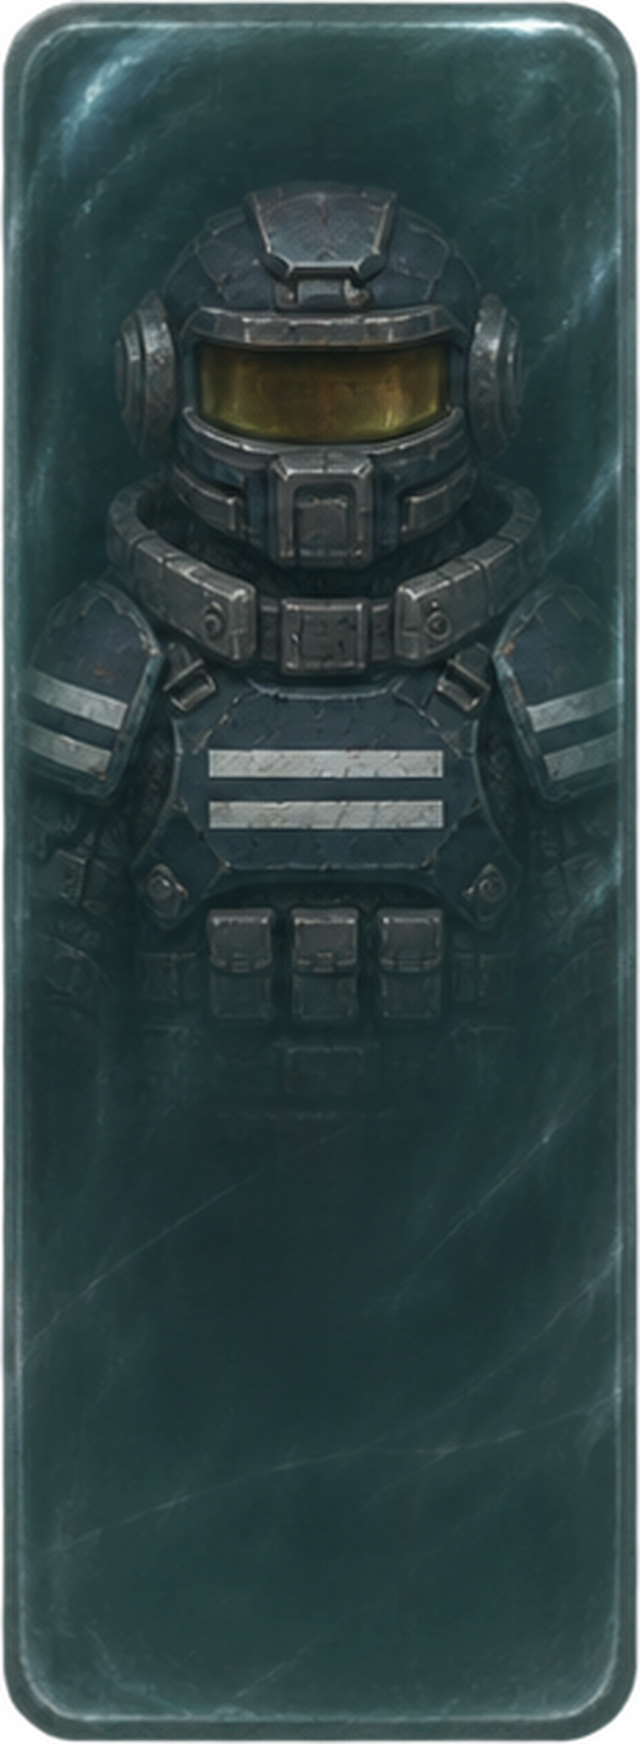
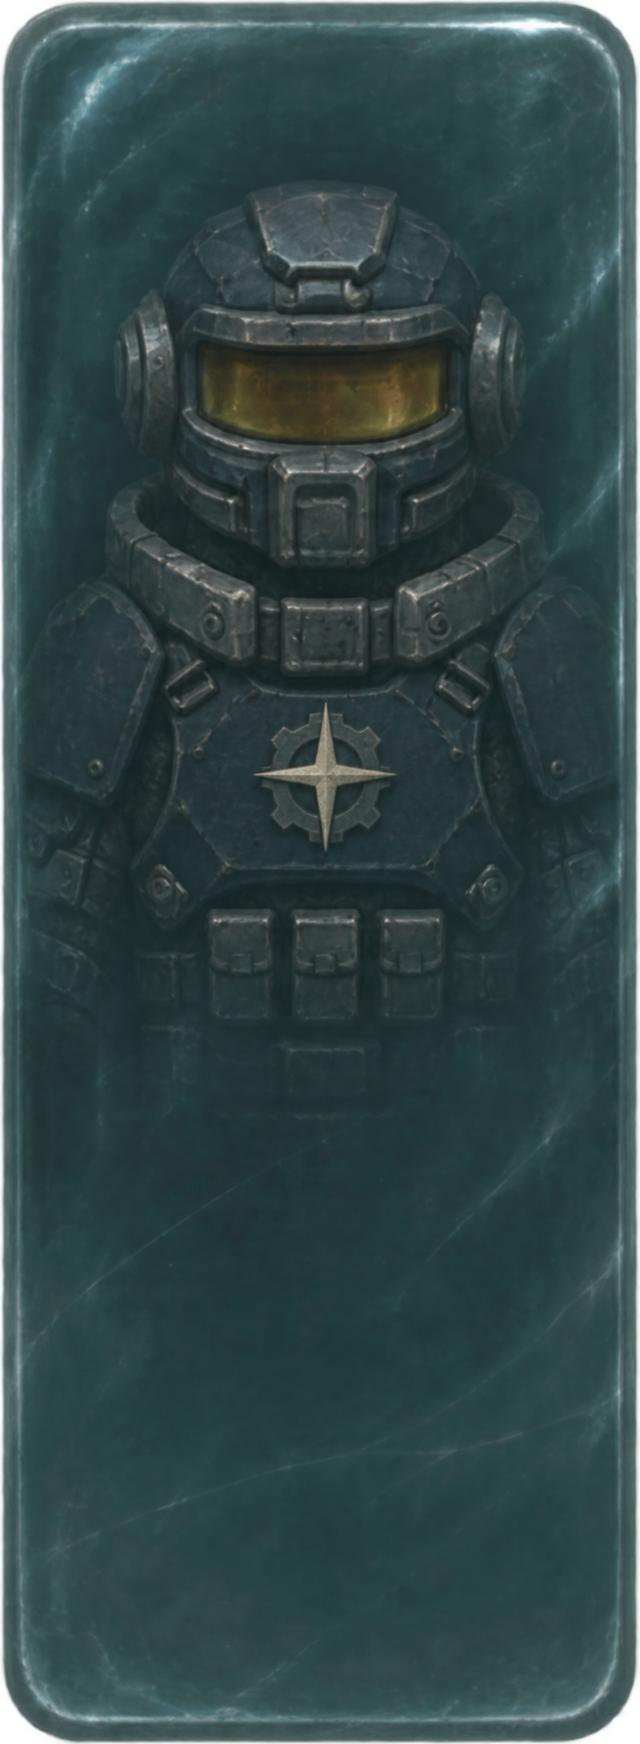
modified:   System-Aegis-No-Headsets/Assets/Factions/coalition/rack-suit.png 	modified:   System-Aegis-No-Headsets/Assets/Factions/coalition/rack-window-v2.png 	modified:   System-Aegis-No-Headsets/Assets/Factions/coalition/suit-v2.png 	modified:   System-Aegis-No-Headsets/aegis_factions.xml 	modifi

diff --git a/docs/faction-colors/preview.html b/docs/faction-colors/preview.html
@@ -15,7 +15,7 @@ article header p,article>p{color:#c5d0cc}.portrait{display:flex;justify-content:
 </style>
 <main>
 <h1>Kombinezony frakcji</h1>
-<p>System Aegis 1.8.5</p>
+<p>System Aegis 1.8.6</p>
 <a href="../FACTION-COLORS.md">Gdzie kupić i jak używać</a>
 <section class="grid">
 <article style="--accent:#c94d4e">

diff --git a/tests/test_faction_colors.py b/tests/test_faction_colors.py
@@ -284,6 +284,26 @@ class FactionFrameTests(unittest.TestCase):
                     expected = [self.factions.frame(key, name)[i] for i in range(1, 5)]
                     self.assertEqual(list(map(int, node.get('sourcerect').split(','))), expected, (key, limb))
 
+    def test_faction_helmets_use_a_closer_fit(self):
+        for filename in ('aegis_suit.xml', 'aegis_factions.xml'):
+            for helmet in ET.parse(MOD / filename).findall("Item/Wearable/sprite[@name='Aegis Head']"):
+                self.assertLessEqual(float(helmet.get('scale')), .67)
+                self.assertEqual(helmet.get('origin'), '0.5,0.5')
+
+    def test_coalition_chest_and_shoulder_emblems_use_the_game_faction_icon(self):
+        suit = ET.parse(MOD / 'aegis_factions.xml').find("Item[@identifier='aegisservosuitcoalition']")
+        for name, limb, plate_depth in (('Coalition emblem', 'Torso', .06),
+                                        ('Coalition emblem RightArm', 'RightArm', .02),
+                                        ('Coalition emblem LeftArm', 'LeftArm', .14)):
+            badge = suit.find(f"Wearable/sprite[@name='{name}']")
+            self.assertEqual(badge.get('limb'), limb)
+            self.assertEqual(badge.get('texture'), 'Content/UI/CampaignUIAtlas2.png')
+            self.assertEqual(badge.get('sourcerect'), '143,523,94,113')
+            self.assertEqual(badge.get('inheritlimbdepth'), 'false')
+            self.assertAlmostEqual(float(badge.get('depth')), plate_depth - .001)
+        chest = suit.find("Wearable/sprite[@name='Coalition emblem']")
+        self.assertGreaterEqual(float(chest.get('scale')), .4)
+
 
 class FactionSalesTests(unittest.TestCase):
     sellers = {

diff --git a/docs/FACTION-COLORS.md b/docs/FACTION-COLORS.md
@@ -1,10 +1,10 @@
-# Kombinezony frakcji w Systemie Aegis 1.8.5
+# Kombinezony frakcji w Systemie Aegis 1.8.6
 
 Każda z sześciu frakcji ma własny krój kombinezonu, hełm i osłony osprzętu.
 Rozpoznasz zestawy po kształtach, materiale i widocznych oznaczeniach.
 Warianty mają te same receptury, ochronę i funkcje.
 
-[Porównaj kombinezony](faction-colors/preview.html) · [ZIP 1.8.5](../output/System-Aegis-1.8.5.zip)
+[Porównaj kombinezony](faction-colors/preview.html) · [ZIP 1.8.6](../output/System-Aegis-1.8.6.zip)
 
 | Frakcja | Motyw |
 |---|---|

diff --git a/docs/NO-HEADSETS.md b/docs/NO-HEADSETS.md
@@ -1,7 +1,7 @@
-# System Aegis 1.8.5
+# System Aegis 1.8.6
 
 Archiwum zawiera kompletny folder moda `System-Aegis/`.
-[Gotowy ZIP](../output/System-Aegis-1.8.5.zip).
+[Gotowy ZIP](../output/System-Aegis-1.8.6.zip).
 
 
 W tym wariancie są odkurzacz z plecakiem, kombinezon Aegis, bojowy multitool,
